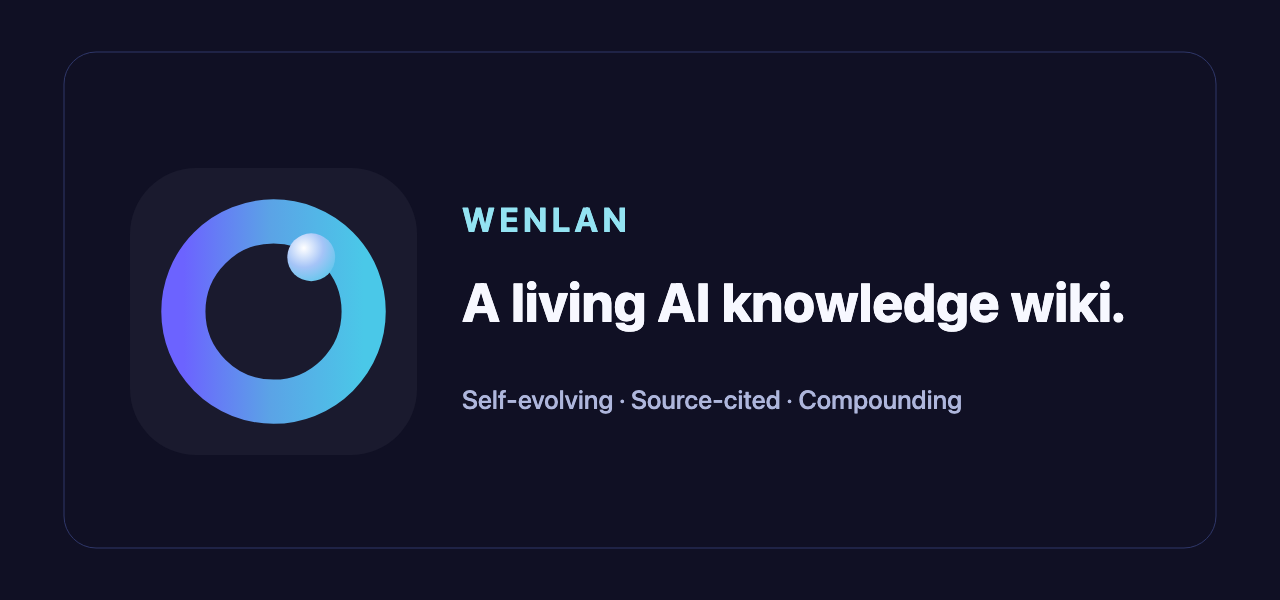
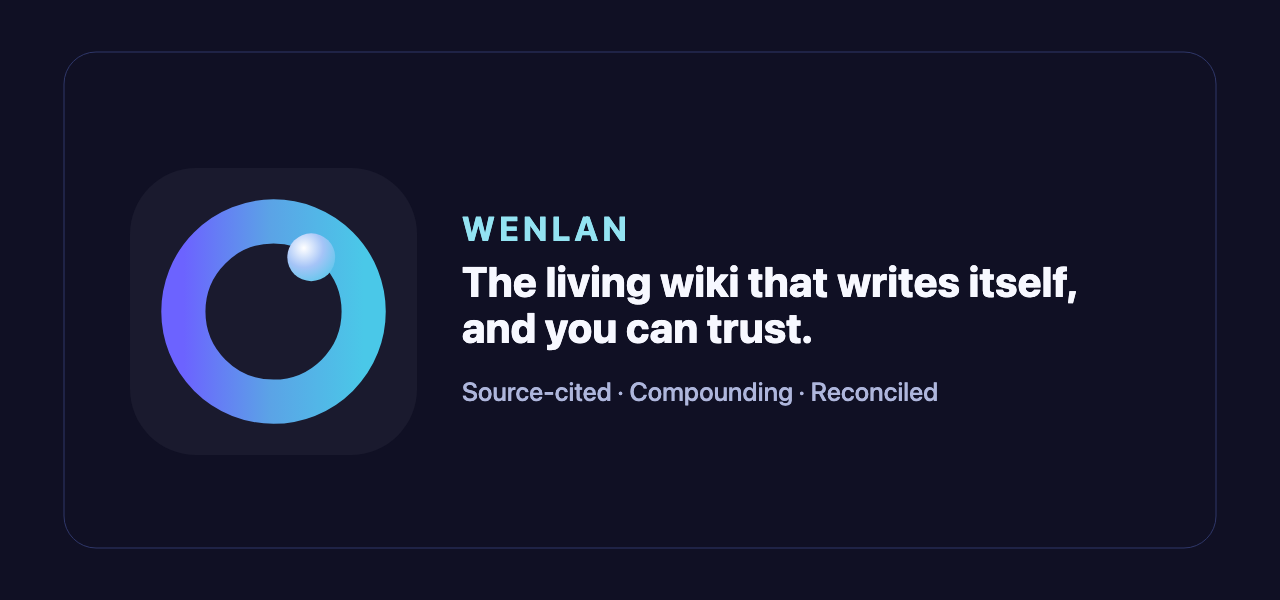
fix: sharpen positioning, trust-led tagline + README reorder
Social preview headline -> "The living wiki that writes itself, and you can
trust." Triad "Self-evolving · Source-cited · Compounding" -> "Source-cited ·
Compounding · Reconciled" (three distinct axes: proof, growth, trust, where
Reconciled carries the selective human-review gate).

README "What makes Wenlan distinct" reordered to lead with the trustworthy /
provenance point, reframed as a reliable auto-wiki that only surfaces a capture
on a genuine conflict (no approval chore). No em-dashes in user-facing copy.

Claude-Session: https://claude.ai/code/session_01QJ8uzcAQjGDXVxeLvofZPY

Changed region(s): [[0.3438, 0.45, 0.875, 0.6], [0.3438, 0.63, 0.75, 0.69], [0.3438, 0.33, 0.5, 0.42]]

diff --git a/README.md b/README.md
@@ -39,9 +39,9 @@ Unlike a static llm-wiki, it keeps evolving between sessions. Unlike a black-box
 
 ## What makes Wenlan distinct
 
-1. **Evolves on its own.** Most memory tools just hand back what you put in. Wenlan keeps working between sessions: it dedupes, links, and clusters your captures into source-cited wiki pages that feed retrieval alongside the atomic notes they came from. Unlike a static llm-wiki, the library stays current without you maintaining it.
-2. **One home, locked to none.** Every MCP client queries the same local daemon, so context built in one tool shows up in the next. Obsidian is one optional view you can symlink in, not where your work lives.
-3. **Sourced, so you can trust it.** Every page cites the memories it came from, and the daemon refuses unsourced pages rather than letting hallucinated summaries in. Low-confidence captures and contradictions surface for you to confirm or correct, but the everyday flow never stops for approval. Fix something once and Wenlan supersedes the old fact instead of serving both.
+1. **Trustworthy on its own.** Every page cites the memories it came from, and the daemon refuses unsourced pages rather than letting hallucinated summaries in. It dedupes facts and supersedes the old version when one changes, so you read a clean, current wiki instead of a pile of duplicates. The everyday flow never stops for approval; a capture only surfaces for you when something genuinely conflicts.
+2. **Evolves on its own.** Most memory tools just hand back what you put in. Wenlan keeps working between sessions, clustering your captures into source-cited wiki pages that feed retrieval alongside the atomic notes they came from. Unlike a static llm-wiki, it stays current without you maintaining it.
+3. **One home, locked to none.** Every MCP client queries the same local daemon, so context built in one tool shows up in the next. Obsidian is one optional view you can symlink in, not where your work lives.
 4. **Real git versioning.** Memory, page, and session writes commit into `~/.wenlan/.git/`, so you can inspect, diff, revert, or branch the Markdown artifacts.
    ```text
    a1b2c3d page: embedding-retrieval refreshed (4 sources)